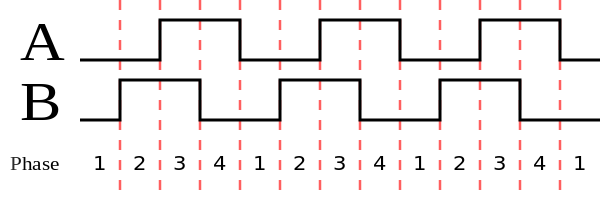
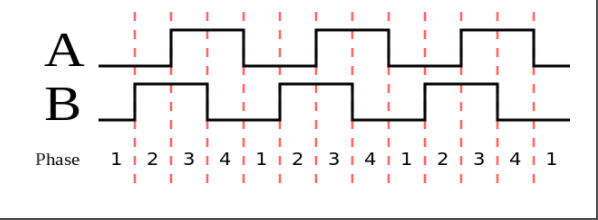
let there be white

diff --git a/README.md b/README.md
@@ -83,11 +83,7 @@ We'd see the opposite, A lead phase B if the shaft was rotating counterclockwise
 As the encoder rotates the RPI detects changes in the GPIO pin status and either decrements or
 increments a count, which can then be transformed into degrees - we know the total count per revolution. 
 
-<table style="background-color:white;width:300px" >
-<tr>
-<td><img src="docs/img/quadrature.png" width="300"></td>
-</tr>
-</table>
+<img src="docs/img/quadrature.png" width="300">
 
 The encoder has 4 wires - ground, 5V, B phase (white), A phase (green). Phase A and B are connected to 
 GPIO pins on the RPI and a 10K pull-up resistor connects A and B to 5V.
